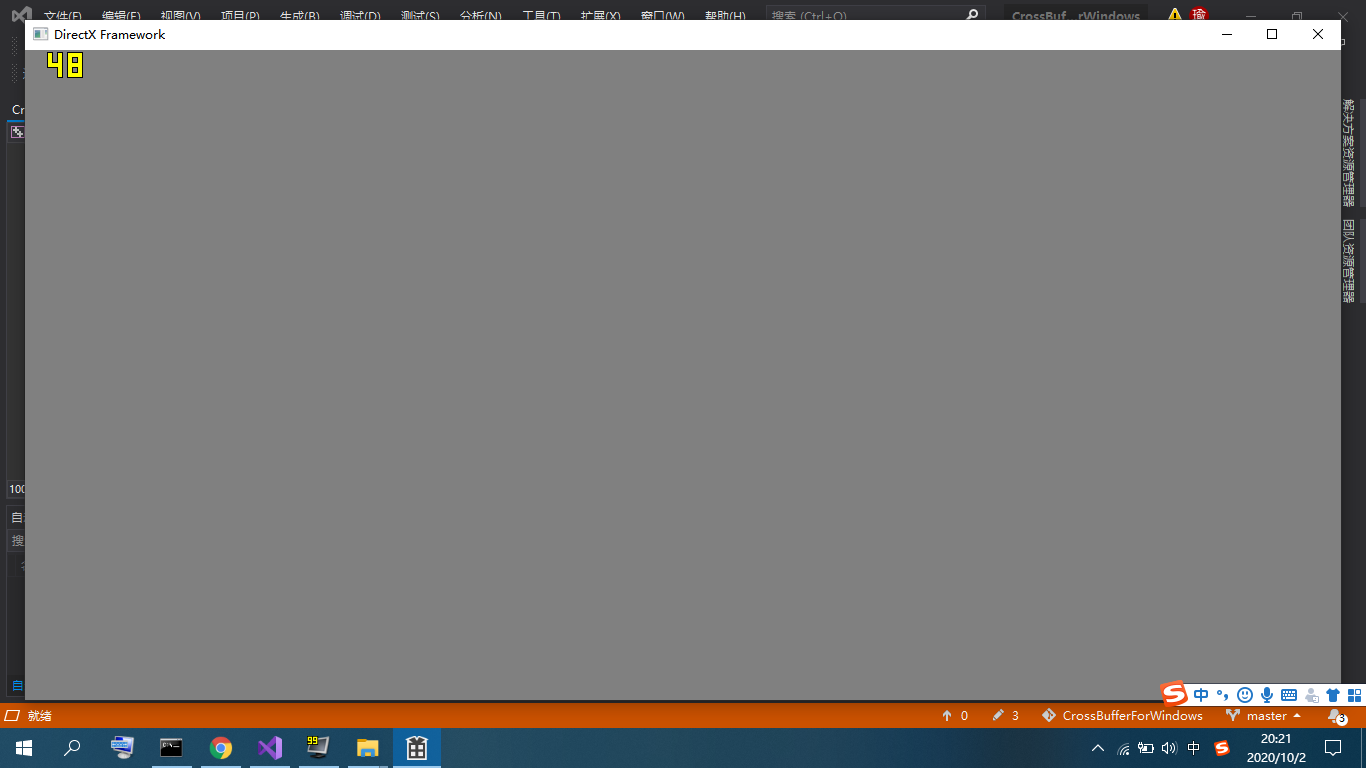
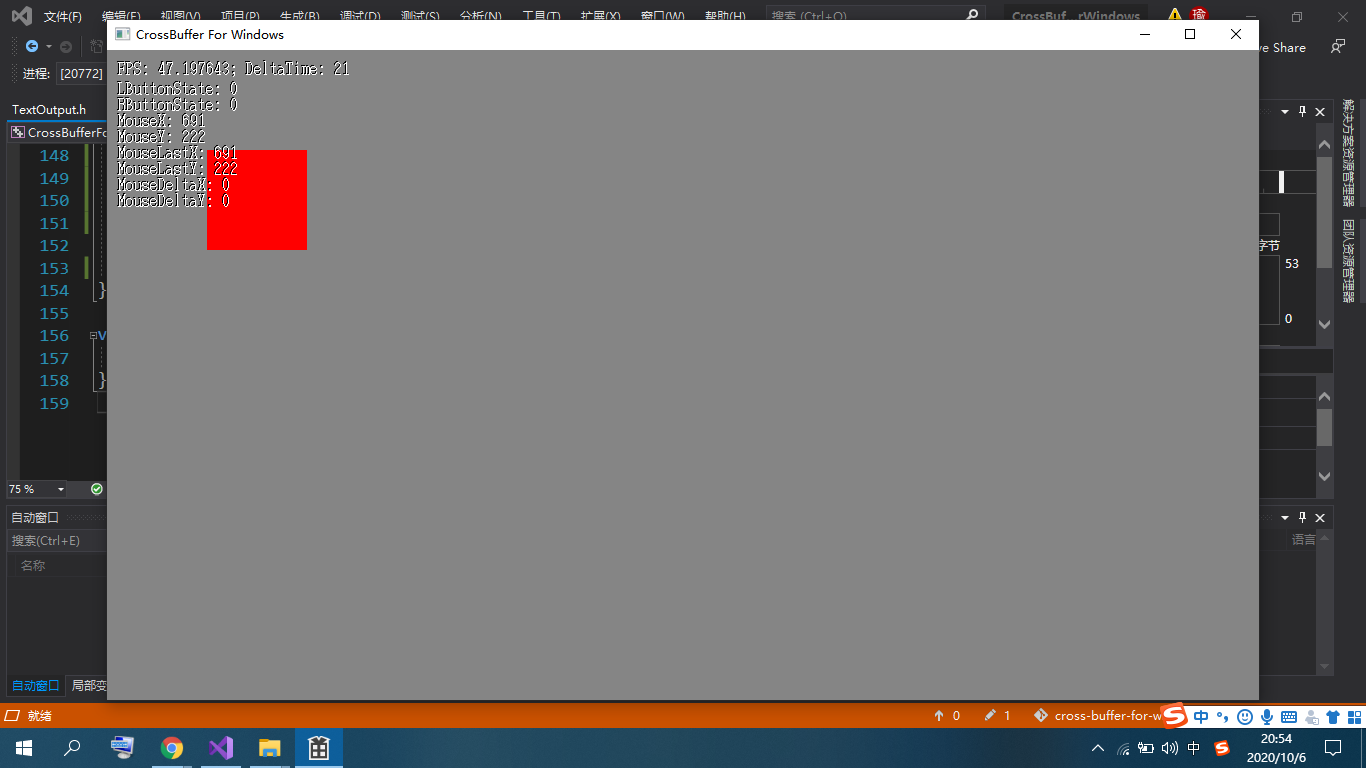
replaced the Demo images and created API Manual in readme.md

Changed region(s): [[0.0, 0.0, 0.246, 0.9375], [0.6764, 0.0, 1.0, 0.9688], [0.0922, 0.9375, 0.3382, 1.0]]

diff --git a/readme.md b/readme.md
@@ -4,7 +4,7 @@
 
 ![Demo](./ImagesForReadme/Demo.png)
 
-# 如何使用
+# 如何把项目运行起来（环境配置）
 
 1.下载并运行DirectX9.0 SDK安装包（DXSDK_Jun10.exe），由于DXSDK不是开源的，这里就不放文件了，放个网上的链接，侵删：链接: http://pan.baidu.com/s/1gfkqSMZ 密码: r6my
 
@@ -30,13 +30,69 @@
 
 5.设置完成后就可以使用了，点击画面上方的“本地Windows调试器”进行编译运行。不出所料的话，你应该会看到一个颜色渐变的Demo。在6代i3，纯CPU环境下能稳定在48帧，Ryzen 3600，纯CPU环境下能稳定在50帧，还算不错。
 
-另外，推荐安装Fraps，它能实时查看任何DirectX编写的软件的帧数，并通过Hook实时显示在软件窗口上，就如下图左上角所示。
-
 ![vs4](./ImagesForReadme/vs4.png)
 
-Enjoy it!
+# APIs
 
+CrossBuffer希望提供一个跨平台的显存读写环境，这样你的代码就可以轻松复用，无需移植！
 
+CrossBuffer在各个平台上都提供Main.h文件，通过修改这个文件，你就可以操作显存、键盘、鼠标、计时等等设备和功能。
+
+Main.h包含4个函数：
+
+```
+#include "CrossBuffer.h"
+#include "Input.h"
+
+void OnCreate() {
+	;
+}
+
+void Setup(FrameBuffer fb, int width, int height, int deltaTime, Keyboard keyboard, Mouse mouse) {
+	;
+}
+
+void Update(FrameBuffer fb, int width, int height, int deltaTime, Keyboard keyboard, Mouse mouse) {
+	;
+}
+
+void OnDestroy() {
+	;
+}
+
+```
+
+OnCreate()在显存建立之前被调用，没有参数。
+
+Setup()在显存建立后第一帧被调用，参数：
+
+- fb：显存
+- width：屏幕宽度
+- height：屏幕高度
+- deltaTime：这一帧和上一帧的间隔时间（毫秒为单位，在Setup中由于是第一帧，所以为0）
+- keyboard：键盘对象
+- mouse：鼠标对象
+
+Update()在显存建立后除了第一帧以外的每一帧被调用，参数：
+
+- fb：显存
+- width：屏幕宽度
+- height：屏幕高度
+- deltaTime：这一帧和上一帧的间隔时间（毫秒为单位）
+- keyboard：键盘对象
+- mouse：鼠标对象
+
+OnDestroy()在显存释放后被调用，没有参数。
+
+另外要注意：
+
+- 如果需要使用fb显存对象，需要#include "CrossBuffer.h"。
+- 如果需要使用keyboard或mouse对象，需要#include "Input.h"。
+- 如果需要在显存上显示文字，需要#include "TextOutput.h"。
+
+这些库的使用方法参见工程中的Main.h文件，这里就不做详细说明了。如果有问题，请Issue我，我看到后会进行解释。
+
+Enjoy it！
 
 # 关于开源协议
 
